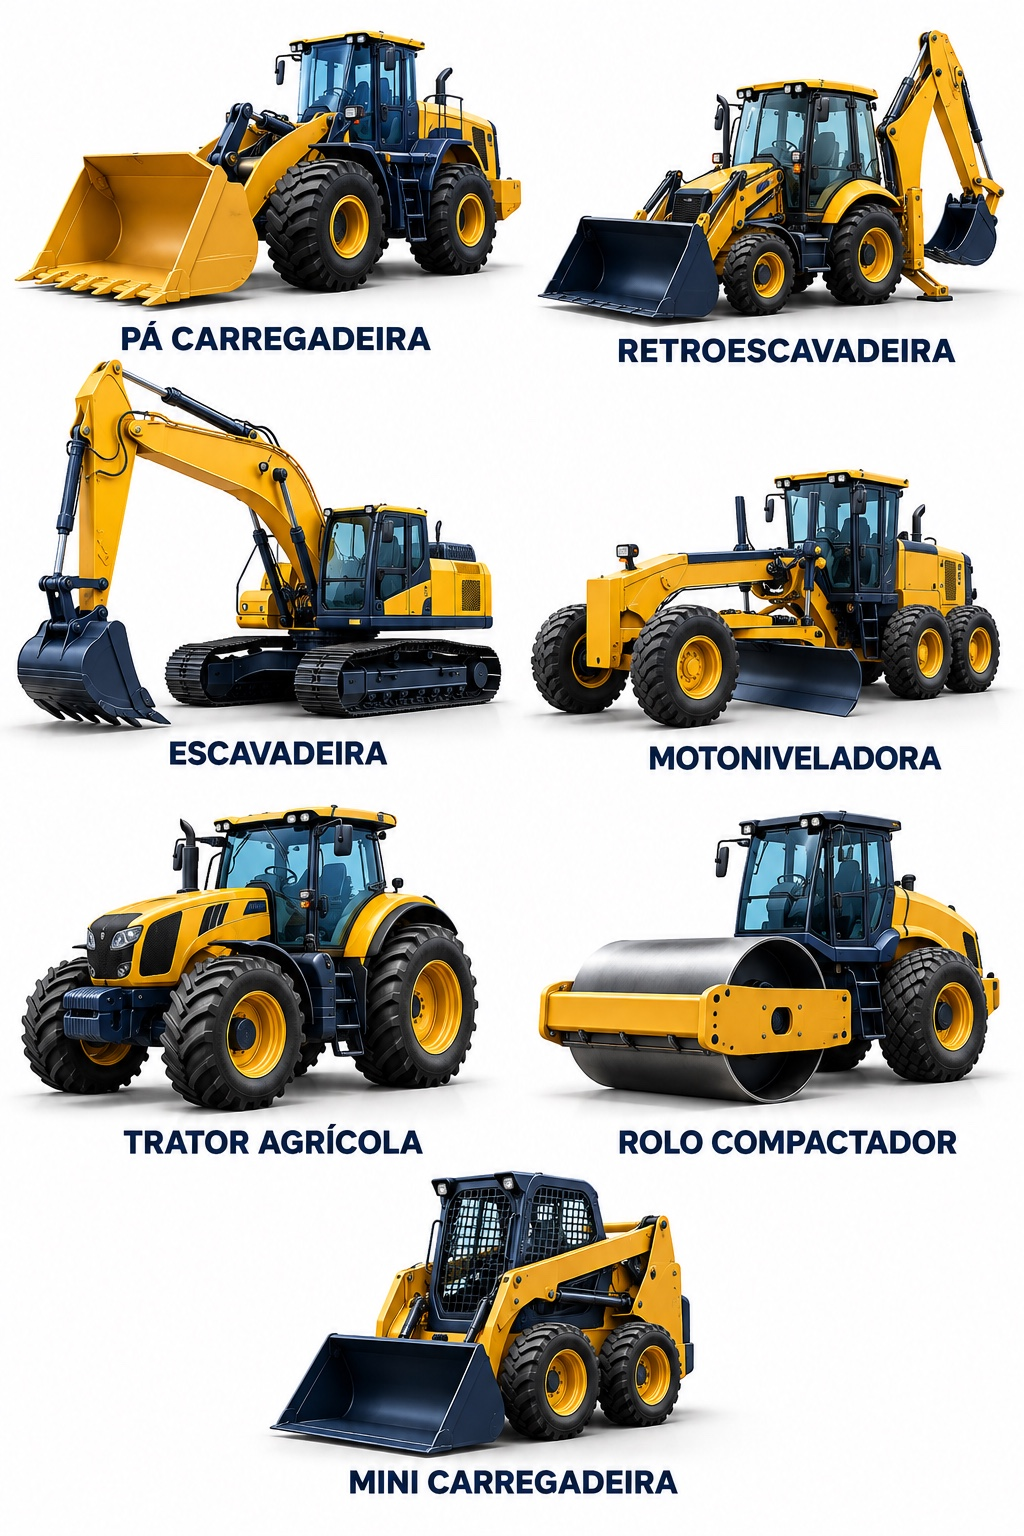
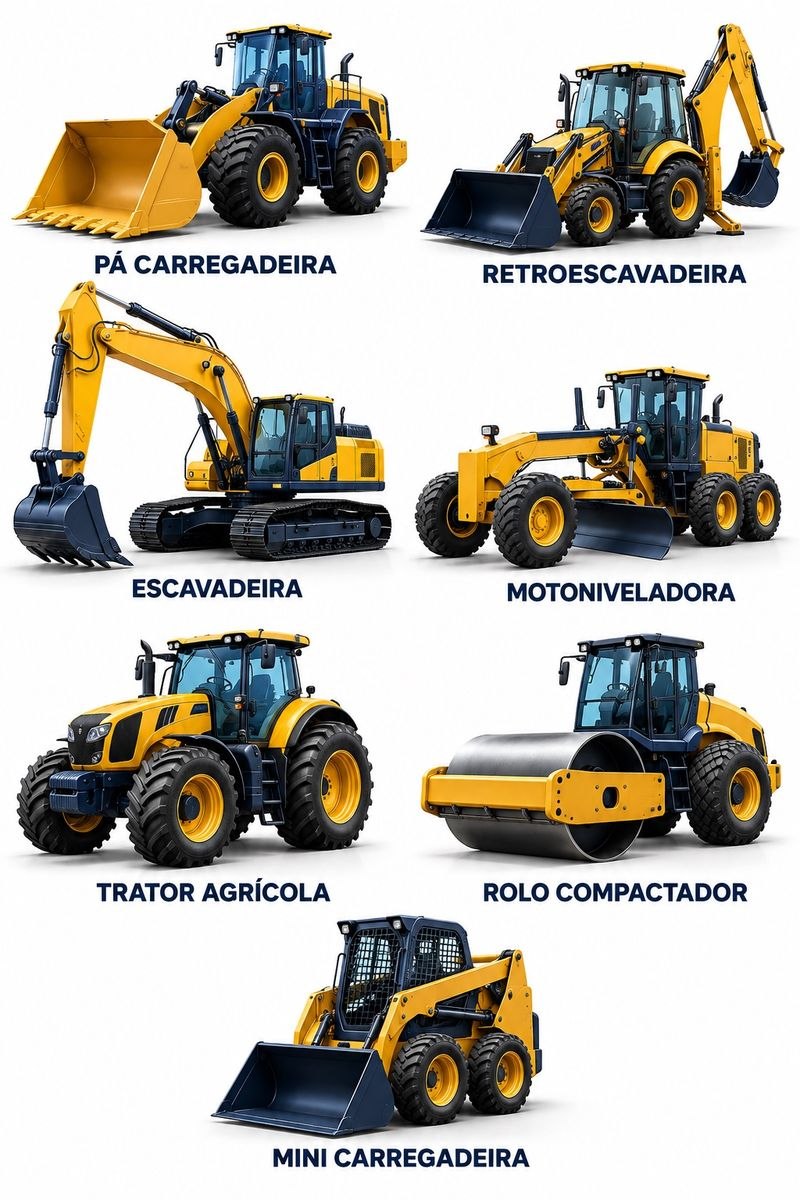
Magazine: artes PNG de 1,8 MB viram JPEG de 180 KB; capa de máquinas 3x menor
Claude-Session: https://claude.ai/code/session_013yoifGvtRfeZQVgkoBhnbR

diff --git a/espelho/index.html b/espelho/index.html
@@ -15,7 +15,7 @@
 <article class="magazine-news-card magazine-news-card-new" id="magazine-ia-whatsapp"><a class="magazine-art" href="/assets/magazine/20261101-ia-whatsapp.jpg" target="_blank" rel="noopener" aria-label="Abrir arte: IA conduz vendas pelo WhatsApp"><img src="/assets/magazine/20261101-ia-whatsapp.jpg" alt="Notícias Goullart Magazine: IA conduz vendas pelo WhatsApp" loading="lazy" decoding="async" width="941" height="1672"></a><div class="magazine-news-copy"><time datetime="2026-10-27">27/10/2026</time><h3>IA conduz vendas pelo WhatsApp</h3><p>Do catálogo ao pagamento.</p><p class="magazine-source">Fonte: PicPay</p><a href="/assets/magazine/20261101-ia-whatsapp.jpg" target="_blank" rel="noopener">Abrir arte completa ↗</a></div></article>
 <div class="magazine-previous-editions" style="grid-column:1/-1;border-top:1px solid #d8e1e9;padding:14px 0 3px;color:#0a2342;font-weight:700">Publicações anteriores</div><article class="magazine-news-card magazine-news-card-new" id="magazine-dolar"><a class="magazine-art" href="/assets/magazine/20261101-dolar.jpg" target="_blank" rel="noopener" aria-label="Abrir arte: Dólar futuro chega a R$ 5,58"><img src="/assets/magazine/20261101-dolar.jpg" alt="Notícias Goullart Magazine: Dólar futuro chega a R$ 5,58" loading="lazy" decoding="async" width="941" height="1672"></a><div class="magazine-news-copy"><time datetime="2026-10-26">26/10/2026</time><h3>Dólar futuro chega a R$ 5,58</h3><p>Cotação em Chicago antes da abertura no Brasil.</p><p class="magazine-source">Fonte: UOL Economia</p><a href="/assets/magazine/20261101-dolar.jpg" target="_blank" rel="noopener">Abrir arte completa ↗</a></div></article>
 <article class="magazine-news-card magazine-news-card-new" id="magazine-soja"><a class="magazine-art" href="/assets/magazine/20261101-soja.jpg" target="_blank" rel="noopener" aria-label="Abrir arte: Soja já supera 105 milhões t exportadas"><img src="/assets/magazine/20261101-soja.jpg" alt="Notícias Goullart Magazine: Soja já supera 105 milhões t exportadas" loading="lazy" decoding="async" width="941" height="1672"></a><div class="magazine-news-copy"><time datetime="2026-10-23">23/10/2026</time><h3>Soja já supera 105 milhões t exportadas</h3><p>Plantio e colheita mantêm máquinas em ritmo forte.</p><p class="magazine-source">Fonte: Revista Cultivar</p><a href="/assets/magazine/20261101-soja.jpg" target="_blank" rel="noopener">Abrir arte completa ↗</a></div></article>
-<article class="magazine-news-card magazine-news-card-new" id="magazine-telemetria"><a class="magazine-art" href="/assets/magazine/20261101-telemetria.jpg" target="_blank" rel="noopener" aria-label="Abrir arte: Telemetria conecta máquina e escritório"><img src="/assets/magazine/20261101-telemetria.jpg" alt="Notícias Goullart Magazine: Telemetria conecta máquina e escritório" loading="lazy" decoding="async" width="941" height="1672"></a><div class="magazine-news-copy"><time datetime="2026-10">out/2026</time><h3>Telemetria conecta máquina e escritório</h3><p>Horímetro, manutenção e faturamento no mesmo fluxo.</p><p class="magazine-source">Fonte: Revista M&amp;T</p><a href="/assets/magazine/20261101-telemetria.jpg" target="_blank" rel="noopener">Abrir arte completa ↗</a></div></article><article class="magazine-news-card"><img src="/assets/magazine/carajas-investimentos.png" alt="Arte GOULLART MAGAZINE: Carajás: ANTT revisa investimentos da Vale." loading="lazy" width="1024" height="1536"><div class="magazine-news-copy"><time datetime="2026-10-17">17/10/2026</time><h3>Carajás: ANTT revisa investimentos da Vale</h3><p>A agência analisa registros de R$ 1,16 bilhão em investimentos anteriores na ferrovia. O valor está em análise e não representa um novo aporte.</p><a href="https://c-level.folha.uol.com.br/infraestrutura/2026/10/antt-faz-pente-fino-em-carajas-e-cobra-explicacoes-da-vale-sobre-r-116-bilhao.shtml" target="_blank" rel="noopener noreferrer">Ler na fonte · Folha C-Level</a></div></article><article class="magazine-news-card"><img src="/assets/magazine/carregadeiras-eletricas.png" alt="Arte GOULLART MAGAZINE: Grupo Base compra seis carregadeiras elétricas SDLG." loading="lazy" width="1024" height="1536"><div class="magazine-news-copy"><time datetime="2026-10-16">16/10/2026</time><h3>Grupo Base compra seis carregadeiras elétricas SDLG</h3><p>Quatro máquinas serão destinadas à britagem e duas às plantas de concreto, como parte do projeto de eletrificação das operações do grupo.</p><a href="https://www.conexaomineral.com.br/noticia/5343/index.html" target="_blank" rel="noopener noreferrer">Ler na fonte · Conexão Mineral</a></div></article><article class="magazine-news-card"><img src="/assets/magazine/atividade-economica.png" alt="Arte GOULLART MAGAZINE: Atividade econômica sobe 0,3% em agosto." loading="lazy" width="1024" height="1536"><div class="magazine-news-copy"><time datetime="2026-10-16">16/10/2026</time><h3>Atividade econômica sobe 0,3% em agosto</h3><p>O IBC-Br avançou 0,3% em agosto de 2026 frente a julho. No trimestre encerrado em agosto, o indicador recuou 0,6%.</p><a href="https://agenciabrasil.ebc.com.br/economia/noticia/2026-10/atividade-economica-tem-alta-de-03-em-agosto-mostra-ibc-br" target="_blank" rel="noopener noreferrer">Ler na fonte · Agência Brasil</a></div></article></div></div></details></template><details class="approved-presentation"><summary>Conheça a GOULLART e explore as categorias</summary><section class="hero hero-with-video hero-category-entry" aria-label="Bem-vindo à Goullart"><div class="hero-copy hero-offers-copy"><section class="category-banners" id="categorias" aria-labelledby="category-heading">
+<article class="magazine-news-card magazine-news-card-new" id="magazine-telemetria"><a class="magazine-art" href="/assets/magazine/20261101-telemetria.jpg" target="_blank" rel="noopener" aria-label="Abrir arte: Telemetria conecta máquina e escritório"><img src="/assets/magazine/20261101-telemetria.jpg" alt="Notícias Goullart Magazine: Telemetria conecta máquina e escritório" loading="lazy" decoding="async" width="941" height="1672"></a><div class="magazine-news-copy"><time datetime="2026-10">out/2026</time><h3>Telemetria conecta máquina e escritório</h3><p>Horímetro, manutenção e faturamento no mesmo fluxo.</p><p class="magazine-source">Fonte: Revista M&amp;T</p><a href="/assets/magazine/20261101-telemetria.jpg" target="_blank" rel="noopener">Abrir arte completa ↗</a></div></article><article class="magazine-news-card"><img src="/assets/magazine/carajas-investimentos.jpg" alt="Arte GOULLART MAGAZINE: Carajás: ANTT revisa investimentos da Vale." loading="lazy" width="1024" height="1536"><div class="magazine-news-copy"><time datetime="2026-10-17">17/10/2026</time><h3>Carajás: ANTT revisa investimentos da Vale</h3><p>A agência analisa registros de R$ 1,16 bilhão em investimentos anteriores na ferrovia. O valor está em análise e não representa um novo aporte.</p><a href="https://c-level.folha.uol.com.br/infraestrutura/2026/10/antt-faz-pente-fino-em-carajas-e-cobra-explicacoes-da-vale-sobre-r-116-bilhao.shtml" target="_blank" rel="noopener noreferrer">Ler na fonte · Folha C-Level</a></div></article><article class="magazine-news-card"><img src="/assets/magazine/carregadeiras-eletricas.jpg" alt="Arte GOULLART MAGAZINE: Grupo Base compra seis carregadeiras elétricas SDLG." loading="lazy" width="1024" height="1536"><div class="magazine-news-copy"><time datetime="2026-10-16">16/10/2026</time><h3>Grupo Base compra seis carregadeiras elétricas SDLG</h3><p>Quatro máquinas serão destinadas à britagem e duas às plantas de concreto, como parte do projeto de eletrificação das operações do grupo.</p><a href="https://www.conexaomineral.com.br/noticia/5343/index.html" target="_blank" rel="noopener noreferrer">Ler na fonte · Conexão Mineral</a></div></article><article class="magazine-news-card"><img src="/assets/magazine/atividade-economica.jpg" alt="Arte GOULLART MAGAZINE: Atividade econômica sobe 0,3% em agosto." loading="lazy" width="1024" height="1536"><div class="magazine-news-copy"><time datetime="2026-10-16">16/10/2026</time><h3>Atividade econômica sobe 0,3% em agosto</h3><p>O IBC-Br avançou 0,3% em agosto de 2026 frente a julho. No trimestre encerrado em agosto, o indicador recuou 0,6%.</p><a href="https://agenciabrasil.ebc.com.br/economia/noticia/2026-10/atividade-economica-tem-alta-de-03-em-agosto-mostra-ibc-br" target="_blank" rel="noopener noreferrer">Ler na fonte · Agência Brasil</a></div></article></div></div></details></template><details class="approved-presentation"><summary>Conheça a GOULLART e explore as categorias</summary><section class="hero hero-with-video hero-category-entry" aria-label="Bem-vindo à Goullart"><div class="hero-copy hero-offers-copy"><section class="category-banners" id="categorias" aria-labelledby="category-heading">
 <div class="category-intro"><div><p class="eyebrow">ESCOLHA SUA CATEGORIA</p><h2 id="category-heading">O que você procura?</h2></div><p>Máquinas, peças, implementos, locações e moda country. Escolha por onde começar.</p></div>
 <div class="category-banner-grid unified-category-grid"><a class="category-banner category-banner-machines unified-category" href="#maquinas" data-catalog-filter="maquinas" aria-label="Ver Máquinas"><span class="category-artwork"><img src="/assets/product-3.jpg" alt="Escavadeira no pátio Goullart" loading="eager" decoding="async" width="1000" height="1000"></span><span class="category-banner-copy"><strong>Máquinas</strong><span class="category-tile-arrow" aria-hidden="true">↗</span></span></a><a class="category-banner category-banner-parts unified-category" href="#pecas" data-catalog-filter="pecas" aria-label="Ver Peças"><span class="category-artwork"><img src="/assets/home/pecas-material-rodante-v2.jpg" alt="Material rodante Goullart Pesados" loading="eager" decoding="async" width="1000" height="1000"></span><span class="category-banner-copy"><strong>Peças</strong><span class="category-tile-arrow" aria-hidden="true">↗</span></span></a><a class="category-banner category-banner-implements unified-category" href="#implementos" data-catalog-filter="implementos" aria-label="Ver Implementos / Outros"><span class="category-artwork"><img src="/assets/home/implementos-outros-clean-v2-mobile.webp" alt="Ilustração 4D de conchas, rompedor hidráulico e garra para máquinas pesadas" loading="lazy" decoding="async" width="1254" height="1254"><span class="implements-brand"><img src="/assets/brands/goullart-pesados-original.svg" alt="Goullart Pesados" width="246" height="115" loading="lazy" decoding="async"></span></span><span class="category-banner-copy"><strong>Implementos / Outros</strong><span class="category-tile-arrow" aria-hidden="true">↗</span></span></a><a class="category-banner category-banner-rental unified-category" href="#locacao" data-catalog-filter="locacao" aria-label="Ver Locações e Editais"><span class="category-artwork"><img src="/assets/home/locacoes-editais-4d-v2-mobile.webp" alt="Locações e editais Goullart" loading="eager" decoding="async" width="1000" height="1000"></span><span class="category-banner-copy"><strong>Locações e Editais</strong><span class="category-tile-arrow" aria-hidden="true">↗</span></span></a><a class="category-banner category-banner-texas unified-category" href="/texas.html" aria-label="Ver Goullart Texas"><span class="category-artwork"><img src="/assets/home/texas-chapeu-v2.webp" alt="Chapéu Goullart Texas" loading="eager" decoding="async" width="1000" height="1000"></span><span class="category-banner-copy"><strong>Goullart Texas</strong><span class="category-tile-arrow" aria-hidden="true">↗</span></span></a></div><button class="category-motion-toggle" type="button" aria-pressed="false">Pausar movimento das imagens</button></section><div id="hero-offers" class="hero-offers" role="region" aria-roledescription="carrossel" aria-label="Máquinas de menor preço do catálogo" hidden><div class="hero-offers-viewport" id="hero-offers-viewport"><div class="hero-offers-track" id="hero-offers-track"></div></div><div class="hero-offers-controls"><span class="hero-offers-position" id="hero-offers-position" aria-live="off"></span><div class="hero-offers-buttons"><button type="button" id="hero-offers-prev" aria-label="Máquina anterior" aria-controls="hero-offers-track">←</button><button type="button" id="hero-offers-pause" aria-label="Pausar passagem dos anúncios" aria-pressed="false" aria-controls="hero-offers-track">Ⅱ</button><button type="button" id="hero-offers-next" aria-label="Próxima máquina" aria-controls="hero-offers-track">→</button></div></div><p class="hero-offers-note">Valores anunciados. Confirme disponibilidade e condições.</p></div><p class="hero-offers-loading" id="hero-offers-loading" role="status">Carregando máquinas e preços…</p><a class="hero-catalog-link" id="hero-view-cheapest" href="#maquinas">Ver todas as máquinas <span aria-hidden="true">↗</span></a></div><div class="hero-video-stage">
 <div class="hero-video-frame"><section id="welcome-banners" class="welcome-banners" role="region" aria-roledescription="carrossel" aria-label="Destaques Goullart" hidden>
